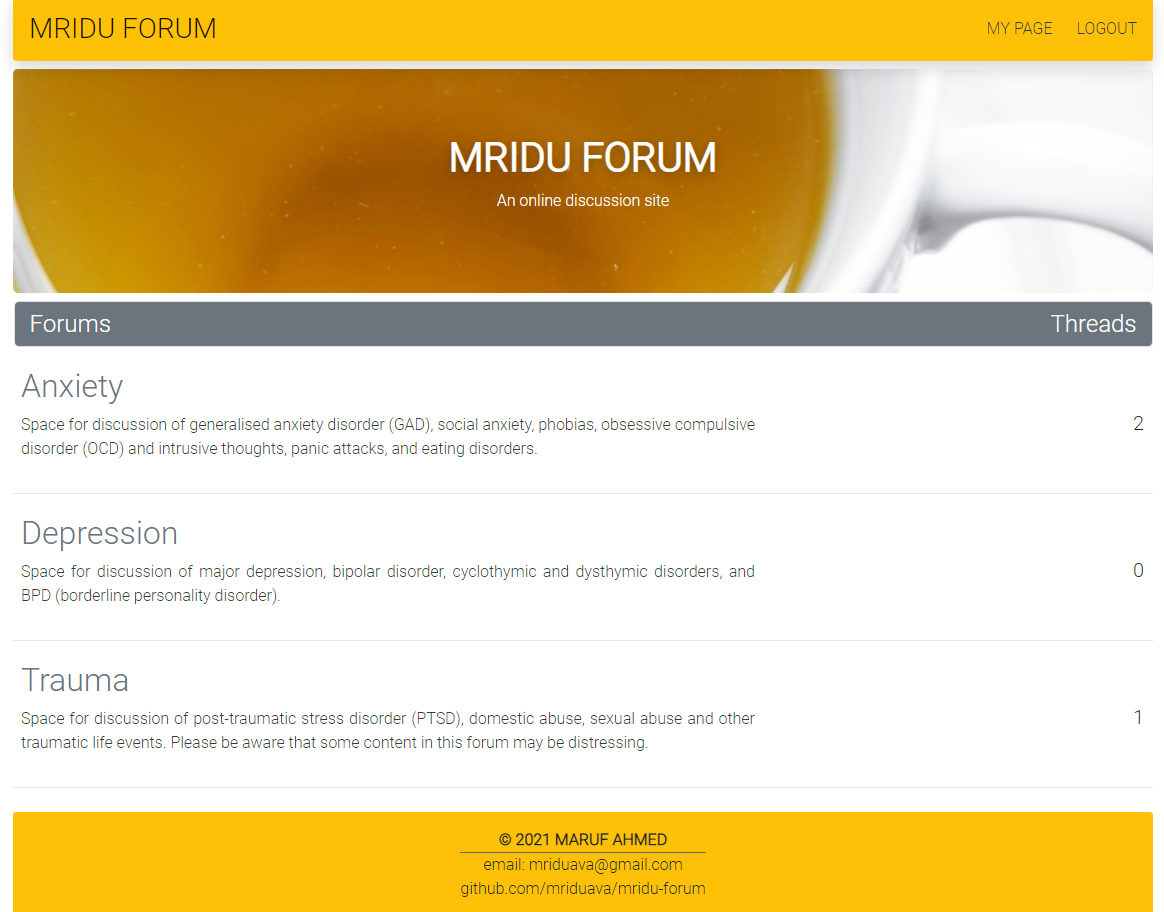
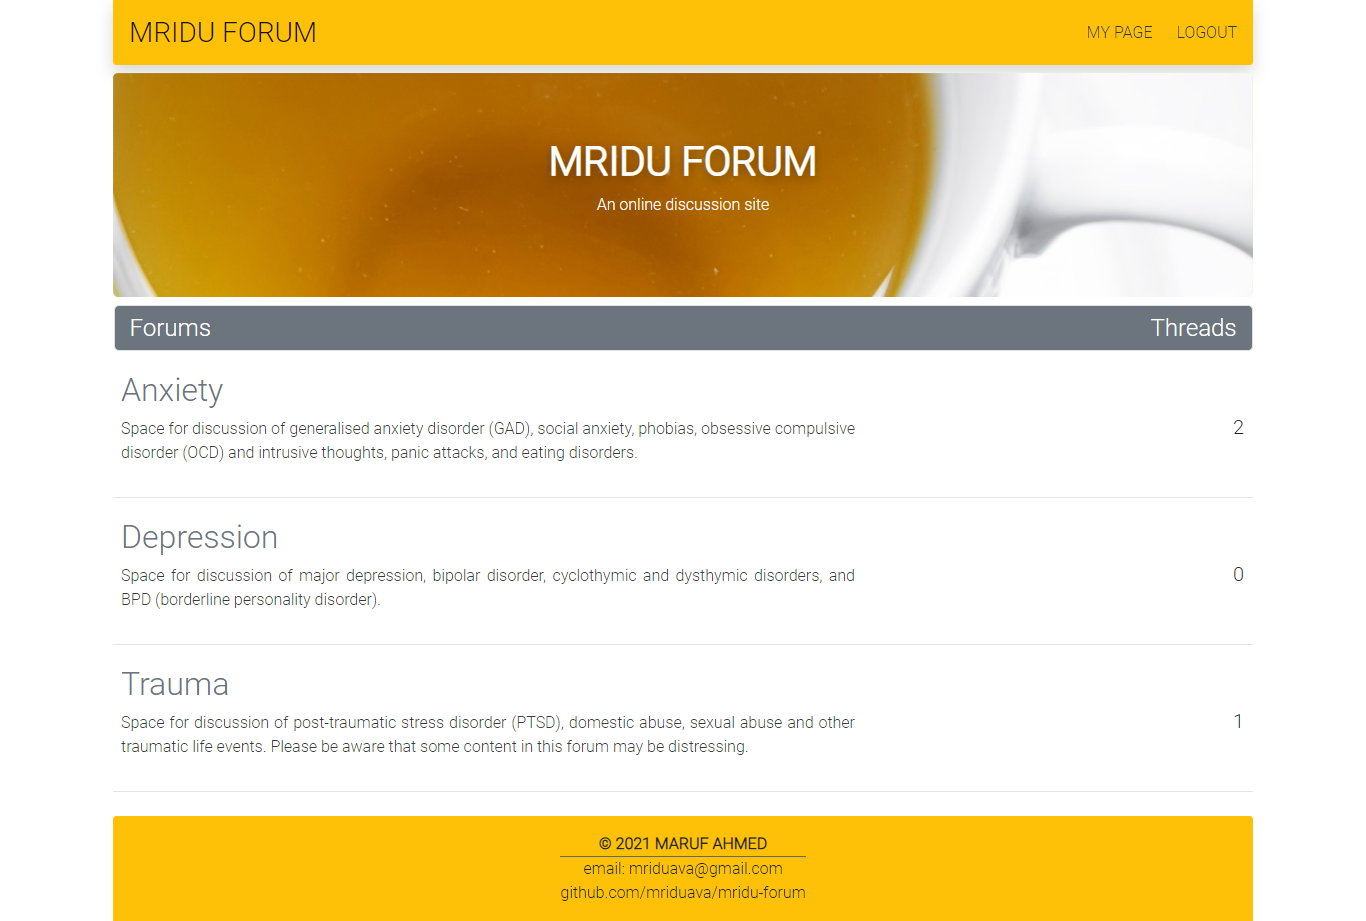
modify admin-acl func in backend & re-touch in frontend

diff --git a/src/components/Thread.js b/src/components/Thread.js
@@ -2,13 +2,13 @@ import React, {useContext, useState} from 'react'
 import { ForumContext } from '../contexts/ForumContextProvider'
 import { UserContext } from '../contexts/UserContextProvider'
 import { Container, Row, Col, Form, FormGroup, Fade } from 'reactstrap';
+import { Link } from 'react-router-dom';
 import moment from 'moment'
 
 const Thread = (props) => {
-  const { thread, subjectId, threadId, fetchThreadById } = useContext(ForumContext)
+  const { subjectName, thread, subjectId, threadId, fetchThreadById } = useContext(ForumContext)
   const { user } = useContext(UserContext)
   const [comment, setComment] = useState('')
-  const [message, setMessage] = useState('')
   const [showForm, setShowForm] = useState(false)
   const [showEditForm, setShowEditForm] = useState(false)
   const [editText, setEditText] = useState('')
@@ -36,10 +36,7 @@ const Thread = (props) => {
         fetchThreadById(subjectId, threadId)
         setEditText('')
         toggleEditButton()
-        setMessage('Text modification successful!')
-      } else {
-        setMessage("Text modification failed!")
-      }
+      } 
     })
   }
 
@@ -48,11 +45,11 @@ const Thread = (props) => {
     return(
       <>
         <Row>  
-          <Col xs="3" sm="3">
+          <Col xs="12" sm="3">
             <h5 className="text-secondary">{user.username.toUpperCase()}</h5>
-            <p className="mb-0 text-warning">is going to modify</p>
+            <p className="pb-2 text-warning">is going to modify</p>
           </Col>       
-          <Col xs="9" sm="9">
+          <Col xs="12" sm="9">
             <Form onSubmit={editThread}>
               <FormGroup>
                 <textarea name="text" id="text" placeholder="Write your comment here..." 
@@ -81,9 +78,7 @@ const Thread = (props) => {
     .then((response) => {
       if (response.ok) {
         props.history.push('/')     
-      } else {
-        setMessage(response)
-      }
+      } 
     })
     .catch((error) => {
       return Promise.reject()
@@ -103,14 +98,6 @@ const Thread = (props) => {
       setComment('');
       toggleButton()
       fetchThreadById(subjectId, threadId)
-      response = response.json();
-      if (response.ok) {
-        response = response.json();
-        Promise.resolve(response)
-        .then(message => setMessage(message));
-      } else {
-        setMessage("You are not logged in!")
-      }
     })
     .catch((error) => {
       return Promise.reject()
@@ -121,11 +108,11 @@ const Thread = (props) => {
     return(
       <>
         <Row>  
-          <Col xs="3" sm="3">
+          <Col xs="12" sm="3">
             <h5 className="text-secondary">{user.username.toUpperCase()}</h5>
-            <p className="mb-0 text-warning">is going to reply</p>
+            <p className="pb-2 text-warning">is going to reply</p>
           </Col>       
-          <Col xs="9" sm="9">
+          <Col xs="12" sm="9">
             <Form onSubmit={writeComment}>
               <FormGroup>
                 <textarea name="text" id="text" placeholder="Write your comment here..." 
@@ -151,15 +138,22 @@ const Thread = (props) => {
       return (
         <div key={'sub' + thread._id}>
           <Row className="text-light bg-success pt-2">
-            <Col xs="9" sm="8"><h4>Topic: {thread.topic}</h4></Col>
-            <Col xs="3" sm="4" className="text-lg-right d-none d-lg-block"><h4>{thread.posts.length} Comments</h4></Col>
+            <Col xs="12" sm="12" md="8">
+              <h5>
+                 <Link to={`/${subjectName}`} style={{ textDecoration: 'none' }}>
+                  <span className="subject-name">{subjectName} </span> 
+                </Link>
+                &#187; {thread.topic}
+              </h5>
+            </Col>
+            <Col xs="0" sm="0" md="4" className="text-lg-right d-none d-lg-block"><h5>{thread.posts.length} Comments</h5></Col>
           </Row>
           <Row className="mt-3">
-            <Col xs="3" sm="3">
+            <Col xs="12" sm="3">
               <p className="mb-0 text-danger">Writer</p>
-              <h4 className="text-secondary">{thread.author.username.toUpperCase()}</h4>              
+              <h4 className="text-secondary pb-2">{thread.author.username.toUpperCase()}</h4>              
             </Col>
-            <Col xs="9" sm="9">
+            <Col xs="12" sm="9">
               <p className="mb-0">{timeFormat(thread.created)}</p>
               <p className="text-dark mt-1 text-justify" style={{whiteSpace: "pre-wrap"}}>{thread.text}</p>         
               {(() => {
@@ -206,11 +200,11 @@ const Thread = (props) => {
       return (
         <div key={'pos' + post._id}>
           <Row>
-            <Col xs="3" sm="3">
+            <Col xs="12" sm="3">
               <p className="mb-0 text-success">Replied by</p>
-              <h5 className="text-secondary">{post.author.username.toUpperCase()}</h5>
+              <h5 className="text-secondary pb-2">{post.author.username.toUpperCase()}</h5>
             </Col>
-            <Col xs="9" sm="9">
+            <Col xs="12" sm="9">
               <p className="mb-0">{timeFormat(post.created)}</p>
               <p className="text-secondary mt-1 text-justify">{post.text}</p>     
             </Col>
@@ -222,7 +216,7 @@ const Thread = (props) => {
   }
 
   return (
-    <Container className="themed-container" fluid="xl">
+    <Container className="themed-container">
       {thread && mapThreads()}
       {thread && mapThreadPosts()}
     </Container>

diff --git a/server/routes/UserRoutes.js b/server/routes/UserRoutes.js
@@ -18,7 +18,7 @@ class UserRoutes {
 
   // GET ALL USERS
   getAllUsers(){
-    this.app.get('/api/users', isUserLoggedIn, async (req, res) => {
+    this.app.get('/api/users', isUserLoggedIn, getPermissionToChangeUser(), async (req, res) => {
       await User.find({}, 'username' & 'role', (err, users)=>{
           res.json(users);
       })
@@ -41,7 +41,7 @@ class UserRoutes {
 
   // RESET USER PASSWORD
   resetPassword(){
-    this.app.put('/api/users/:_id', getPermissionToChangeUser(), async (req, res) => {
+    this.app.put('/api/users/:_id', isUserLoggedIn, getPermissionToChangeUser(), async (req, res) => {
       try {
         let user = await User.findById(req.params._id);
         await user.setPassword(req.body.password);
@@ -55,7 +55,7 @@ class UserRoutes {
 
   // DELETE A USER
   deleteUser(){
-    this.app.delete('/api/users/:_id', getPermissionToChangeUser(), async (req, res) => {
+    this.app.delete('/api/users/:_id', isUserLoggedIn, getPermissionToChangeUser(), async (req, res) => {
       try {
         let existUser = await User.findById(req.params._id);
         if (existUser) {
@@ -145,7 +145,7 @@ class UserRoutes {
 
   // SET USER ROLE
   setUserRole(){
-    this.app.put('/api/users', isUserLoggedIn, async (req, res) => {
+    this.app.put('/api/users', isUserLoggedIn, getPermissionToChangeUser(), async (req, res) => {
       await User.updateOne(
         { username: req.query.username },
         { $set: { role: req.body.role } }, (err, result) => {

diff --git a/src/components/ThreadList.js b/src/components/ThreadList.js
@@ -14,23 +14,23 @@ const ThreadList = () => {
           <Col xs="9" sm="8">
             <Link to={`/${subjectName}/${thread.topic}`} style={{ textDecoration: 'none' }}
               onClick={()=>fetchThreadById(subjectId, thread._id)}>
-              <h4 className="text-secondary mt-1 pb-0">{thread.topic}</h4>
+              <h5 className="text-secondary mt-1 pb-0">{thread.topic}</h5>
               <p className="text-primary mt-0 pt-0">Writer: {thread.author.username.toUpperCase()}</p>
             </Link>       
           </Col>
           <Col xs="3" sm="4" className="text-right mt-2 d-none d-lg-block">{thread.posts.length}</Col>
         </Row>
-        <hr/>
+        <hr className="mt-1"/>
         </div>    
       )
     })
   }
 
   return (
-    <Container className="themed-container" fluid="xl">
+    <Container className="themed-container">
       <Row className="text-light bg-info pt-2 mb-3">
-        <Col xs="9" sm="8"><h4>Threads</h4></Col>
-        <Col xs="3" sm="4" className="text-lg-right d-none d-lg-block"><h4>Answers</h4></Col>
+        <Col xs="9" sm="8"><h5>Threads</h5></Col>
+        <Col xs="3" sm="4" className="text-lg-right d-none d-lg-block"><h5>Answers</h5></Col>
       </Row>
       {threads && mapThreads()}
     </Container>

diff --git a/src/pages/Home.js b/src/pages/Home.js
@@ -19,7 +19,7 @@ const Home = () => {
                 <p className="text-dark text-justify px-2">{subject.description}</p>
               </Link>       
             </Col>
-            <Col sm="4" className="mt-5 text-right d-none d-lg-block pr-4">
+            <Col sm="4" className="mt-5 text-right d-none d-sm-block d-md-block d-lg-block pr-4">
               <h5>{subject.threads.length}</h5>
             </Col>
           </Row>
@@ -30,12 +30,17 @@ const Home = () => {
   }
 
   return (
-    <Container className="themed-container p-0" fluid="lg">
-      <Jumbotron/>
+    <Container className="container mx-auto px-0" >
+      <Row>
+        <Col lg="12" style={{margin: 0}}>
+        <Jumbotron/>
+        </Col>
+      </Row>
+      
       <Row className="text-white bg-secondary border border-rounded pt-2 mb-3"
         style={{margin: "0 0.5px 0 0.5px", borderRadius: "5px"}}>
         <Col xs="12" sm="8"><h4>Forums</h4></Col>
-        <Col sm="4" className="text-right d-none d-lg-block"><h4>Threads</h4></Col>
+        <Col sm="4" className="text-right d-none d-md-block d-sm-block d-lg-block"><h4>Threads</h4></Col>
       </Row>
       {subjects&&mapSubjects()}
     </Container>

diff --git a/server/acl/permission.js b/server/acl/permission.js
@@ -1,4 +1,3 @@
-const Forum = require('../models/forum')
 const Thread = require('../models/thread');
 const User = require('../models/user');
 
@@ -34,25 +33,20 @@ module.exports = {
     }
   },
 
-  // GET ACCESS TO CHANGE THE USER BY OWNER AND BY ADMIN
+  // GET ADMIN POWER TO CHANGE USER
   getPermissionToChangeUser(){
     return (req, res, next) => {
-      if(req.isAuthenticated()){
-        User.findById(req.params._id, (err, user) => {
-          if(err){
-            res.json('The user does not exist!');
+      User.findOne(req.params.id, (err, user) => {
+        if(err){
+          res.json('The user does not exist!');
+        }else{
+          if((req.user.role === 'admin')){
+            next();
           }else{
-            if((user._id.equals(req.user._id))||
-              (req.user.role === 'admin')){
-              next();
-            }else{
-              res.json('You are not allowed to make a change!');
-            }
+            res.json('Sorry, You do not have permission to access!');
           }
-        });
-      }else{
-        res.json('Please login first!');
-      }
+        }
+      });  
     }
   }
 

diff --git a/src/style/style.css b/src/style/style.css
@@ -4,20 +4,27 @@
   margin: 0;
   padding: 0;
   box-sizing: border-box;
+  -webkit-box-sizing: border-box;
+  -msbox-sizing: border-box;
   font-family: 'Roboto', sans-serif;
+}
+
+body {
+  overflow-x: hidden;
 }
 
 html {
   scroll-behavior: smooth;
 }
+
 ::-webkit-scrollbar {
-    width: 7px;
+    width: 9px;
 }
 ::-webkit-scrollbar-track {
     background: #f1f1f1; 
 }
 ::-webkit-scrollbar-thumb {
-    border-radius: 10px;
+    border-radius: 5px;
     background: #a4b1b0;
 }
 
@@ -51,6 +58,14 @@ html {
 
 .found_user:hover{
   background-color: #ffeec8;
+}
+
+.subject-name{
+  color:rgb(208, 255, 0);
+}
+.subject-name:hover{
+  cursor: pointer;
+  color: rgb(250, 250, 250);
 }
 
 .jumbotron{

diff --git a/src/components/Jumbotron.js b/src/components/Jumbotron.js
@@ -3,7 +3,7 @@ import bgimage from '../images/mriduava.jpg'
 
 const Jumbotron = (props) => {
   return (
-    <div className="jumbotron mb-2 px-3 text-center" 
+    <div className="jumbotron mb-2 text-center" 
       style={{ backgroundImage: `url(${bgimage})`, backgroundSize: 'cover' }}>
       <h1 className="ml-0 px-0 text-white font-weight-bold">MRIDU FORUM</h1>
       <p className="text-light">An online discussion site</p>

diff --git a/README.md b/README.md
@@ -4,24 +4,24 @@
 >An online discussion site<br>
 >Demo site: coming soon...<br>
 
-> @author: MARUF AHMED<br>
-> @email : maruf.ahmed@live.se<br>
-> @since : JAN 2021<br>
+> @author : MARUF AHMED<br>
+> @email  : maruf.ahmed@live.se<br>
+> @since  : JAN 2021<br>
 
 
 ## FUNCTIONALITIES
-* Anyone can be registered as a user. There are three different roles for users, 'admin', 'moderator' and 'general'. By default the very first user will get the role 'Admin', and the subseqent users will get the role 'General'. The Admin can modify any user's role, and can set a new role from any of these theree roles. That means any 'general' user can be an 'admin' or a 'moderator'. 
-* A user who has a role 'general', can write a 'thread', edit or delete the own thread and can comment to other's thread.
-* Moderator has the same access as general user. Moreover moderator has the power to modify or delete any user's Thread.
-* Admin can create Sub-Forum, have all the access as like as general-user or moderator.
+* There are three different roles for users, 'admin', 'moderator' and 'general'. By default the very first user will get the role 'Admin', and the subsequent users will get the role 'General'. The Admin can modify any user's role, and can set a new role from any of these three roles. Only admin can create Sub-Forums, and modify users. 
+* General users can post new thread, and can edit and delete his/her own post, and additionally can comment to others post. 
+* Moderator has the same access as general user. Moreover moderator has the power to modify or delete any user's post.
+* Admin can create Sub-Forum, have all the access as like as general-user and moderator.
 
 ### FORUM OUTLOOK
+* 
 ![](/screenshot/mridu_forum.png)
 
-![](/screenshot/mridu_forum_2.png)
-
 ### ADMIN PANEL
-![](/screenshot/mridu_forum_3.png)
+* 
+![](/screenshot/mridu_forum_2.png)
 
 ## HOW TO RUN LOCALLY
 * Clone files from GitHub. <br>
@@ -30,9 +30,6 @@
 * Run from command prompt
 > npm start
 * Navigate to browser `http://localhost:3000/`. 
-
-## HOW TO DEVELOP
-To develop the project, please clone from the 'develop' branch and inform me by email (maruf.ahmed@live.se). <br>
 
 &copy; 2021 MARUF AHMED<br> 
 Licensed under the [MIT License](LICENSE). 
